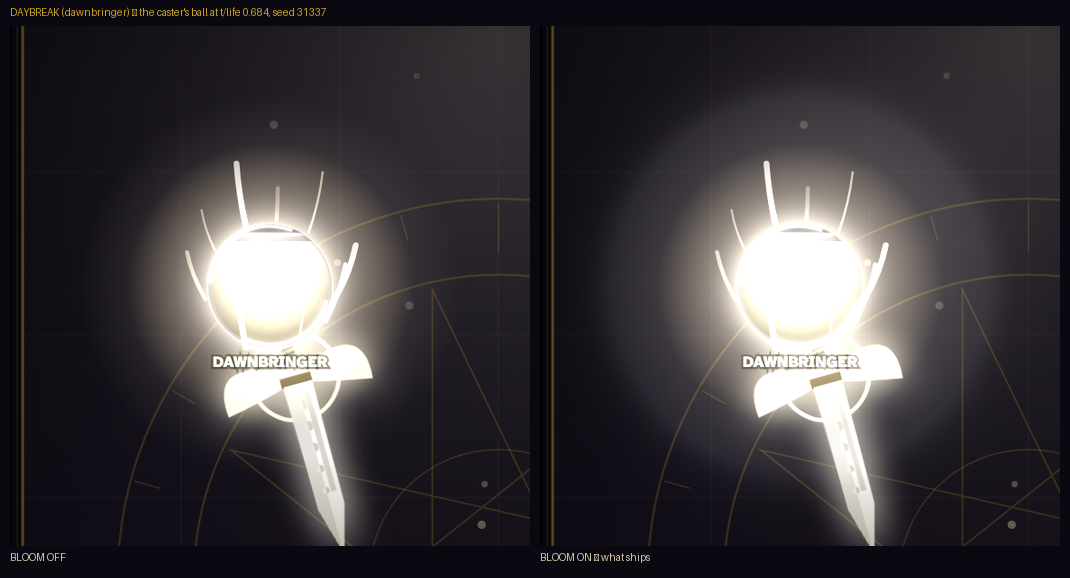
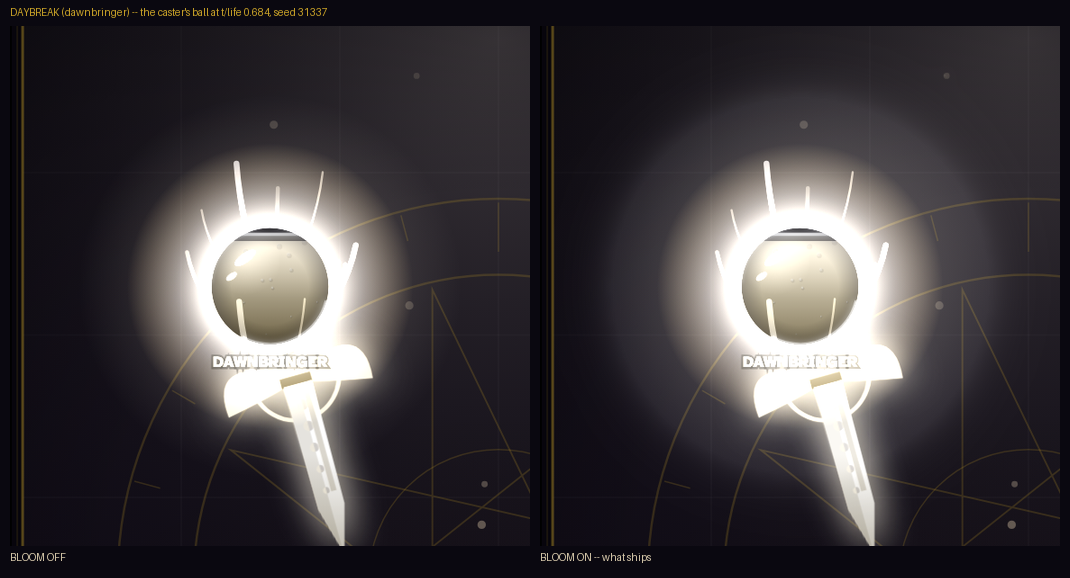
tools: the three debts -- and post_build's defaults were rebuilding the wrong build
All three off docs/APP-FEATURES-BRIEF.md 0, all three confirmed before being
fixed. The first is not cosmetic.

1. POST_BUILD'S DEFAULTS WERE STALE AND SILENT. `--src` pointed at
   sc-paradox-readouts.html and `--out` at sc-paradox-post.html -- the link
   BEFORE the ult art corrections, and a file that is not the tip. Inserting
   ultcarry_build.py into the chain earlier today is what made them wrong, and
   nothing complained: a bare `python post_build.py` rebuilt a "build of
   record" quietly missing Daybreak's ring, Benediction's lance and the
   Harrowing's reach. Exit 0, no warning, wrong picture. This is the project's
   own 4.1 shape -- right and wrong producing indistinguishable output -- in
   the build chain rather than in the art.

   Defaults now name the real tail: sc-paradox-dawn.html -> sc-paradox-frame.html.

   VERIFIED THE ONLY WAY WORTH ANYTHING: a bare run reproduces the committed
   tip BYTE-IDENTICALLY. Not "the arguments look right" -- diffed.

2. tools/README.md said 62 files over 203, and its BUILD section was missing
   cineexport_build, readouts_build and post_build -- three of the four newest
   chain links. That absence is HOW debt 1 survived: the section that should
   have shown post_build sitting after ultcarry did not list either.

   The section is now the tip's own stamps in stamp order, with the command
   that prints them written above it so the next person regenerates rather
[…]

diff --git a/tools/ult_filmstrip.py b/tools/ult_filmstrip.py
@@ -68,6 +68,20 @@ def foe_for(rid):
     return ALT_FOE if rid == FOE else FOE
 
 
+def ascii_only(t):
+    """PIL's DEFAULT FONT IS ASCII AND DRAWS EVERYTHING ELSE AS A TOFU BOX.
+
+    An em-dash in a sheet title renders as a black rectangle, and this project
+    reviews by photograph -- so the one artefact a reviewer is looking at
+    arrives with a corruption mark in its header. No font is loaded here on
+    purpose: a TTF path that exists on one machine and not the next is a worse
+    bug than a plain hyphen."""
+    return (t.replace("—", "--").replace("–", "-")
+             .replace("‘", "'").replace("’", "'")
+             .replace("“", '"').replace("”", '"')
+             .encode("ascii", "replace").decode("ascii"))
+
+
 def png(d):
     return Image.open(io.BytesIO(base64.b64decode(d.split(",", 1)[1]))).convert("RGB")
 
@@ -147,11 +161,11 @@ def main():
     H = HDR + len(rows) * (th + LBL + PAD) + PAD
     sh = Image.new("RGB", (W, H), (10, 8, 16))
     dr = ImageDraw.Draw(sh)
-    dr.text((PAD, 9), f"ULT SET-PIECES — {A.game}   t/life = "
-                      + "  ".join(str(f) for f in fr), fill=(201, 162, 39))
+    dr.text((PAD, 9), ascii_only(f"ULT SET-PIECES -- {A.game}   t/life = "
+                      + "  ".join(str(f) for f in fr)), fill=(201, 162, 39))
     y = HDR
     for lab, ims in rows:
-        dr.text((PAD, y + 5), lab, fill=(214, 200, 170))
+        dr.text((PAD, y + 5), ascii_only(lab), fill=(214, 200, 170))
         for i, im in enumerate(ims):
             sh.paste(im.resize((tw, th), Image.LANCZOS), (PAD + i * (tw + PAD), y + LBL))
         y += th + LBL + PAD

diff --git a/tools/post_build.py b/tools/post_build.py
@@ -241,8 +241,15 @@ def one(src: str, old: str, new: str, label: str) -> str:
 
 def main() -> int:
     ap = argparse.ArgumentParser()
-    ap.add_argument("--src", default="../02-chain/sc-paradox-readouts.html")
-    ap.add_argument("--out", default="../02-chain/sc-paradox-post.html")
+    # THE DEFAULTS ARE THE CHAIN OF RECORD, and they went stale the day
+    # ultcarry_build.py was inserted ahead of this step. They pointed at
+    # sc-paradox-readouts.html -- the link BEFORE the ult art corrections --
+    # and wrote sc-paradox-post.html, which is not the tip. A bare run
+    # therefore rebuilt a build of record that silently lacked Daybreak's
+    # ring, Benediction's lance and the Harrowing's reach, and said nothing.
+    # Nothing failed; the output was just quietly a build nobody had approved.
+    ap.add_argument("--src", default="../02-chain/sc-paradox-dawn.html")
+    ap.add_argument("--out", default="../02-chain/sc-paradox-frame.html")
     ap.add_argument("--off", action="store_true",
                     help="insert the chain but leave it switched off. For an "
                          "A/B build -- the picture is then identical to --src.")

diff --git a/tools/README.md b/tools/README.md
@@ -1,4 +1,4 @@
-# tools/ — 62 files, grouped by what they answer
+# tools/ — 203 files, grouped by what they answer
 
 Flat on disk on purpose: every tool resolves the game beside itself and
 imports `scpage.py` the same way, so subfolders would break all of them.
@@ -6,23 +6,30 @@ imports `scpage.py` the same way, so subfolders would break all of them.
 
 ## BUILD — the shipping chain, in order
 
+**This order is the tip's own `GENERATED by` stamps, read bottom-up**, not a
+list maintained by hand — `grep -o 'GENERATED by [a-z0-9_]*\.py' 02-chain/sc-paradox-frame.html`
+prints it. Four links were missing from this section for several sessions,
+including three of the four newest, which is how `post_build.py`'s defaults
+went stale without anyone noticing.
+
 - `roster15_build.py` — the 12-relic roster, massRef 2.509, and the TUNED damage table
-- `cinema_build.py` — the cinema director (patch v2)
 - `wallglow_build.py` — the closing-wall glow onto a downscaled buffer. --mode strips is the refuted control
-- `introcard_build.py` — the v2 fight card, and the single source of every status/ult tip
 - `roster_gs_build.py` — the four new greatswords + TUNED_GS + a structural preflight
 - `ultart_build.py` — ult set-pieces for the four new greatswords
 - `ultart2_build.py` — ult set-pieces for the last six bare relics
-- `ultcarry_build.py` — carries corrected ult set-pieces to the tip when their owning builder cannot be replayed. Imports/slices each block from its owner so there is one copy of the art
-- `ult_bloom_probe.py` — which ults blow out, and how much of it is the bloom. Ranked on the caster's disc. Zero simulated fights
-- `ult_fx_capture.py` — every ultimate's REAL ultFx, caught out of a real fight. The alternative was hand-writing phases, which is a 4.1 defect on purpose
-- `harrow_bloom_probe.py` — the Harrowing's arena-wide wash, decomposed into ring vs scythes and swept across the blade count
-- `ult_live_probe.py` — the ults a FROZEN match cannot show. Plays a real fight and draws it frame by frame, so the five whose picture lives in match state (stasis, ballista, split, spinstorm, retrace) are finally measurable
-- `share_build.py` — the share/phone shell around any engine
+- `ultforge_build.py` — the Crucible
+- `ultdawn_build.py` — DAYBREAK, and Dawnbringer's blade repaid
+- `introcard_build.py` — the v2 fight card, and the single source of every status/ult tip
+- `cineexport_build.py` — the director, exported for reading
+- `readouts_build.py` — floats, tags and the ult-name callout out of the bloom's source
+- `ultcarry_build.py` — corrected ult set-pieces carried to the tip when their owning builder cannot be replayed. Imports/slices each block from its owner so there is one copy of the art
+- `post_build.py` — the WebGL2 post chain into the build, so the app and the video run the same one
+
+Not stamped at the tip, but chain-adjacent:
+
+- `cinema_build.py` — the cinema director (patch v2)
 - `lastlight_build.py` — LASTLIGHT, the sanctified scythe + the Harrowing. TUNED_LL and every ult number
-- `harrow_probe.py` — the Harrowing falsified: 22 checks, incl. the dud rate and the burden identity at zero
-- `lastlight_sweep.py` — one relic's blade against the whole field, on PINNED seeds
-- `whitescythe_probe.py` — look at a free grid cell before designing it; writes nothing
+- `share_build.py` — the share/phone shell around any engine
 - `bench_build.py` — the measurement page: QUICK, kill switches, paired baselines
 
 ## BUILD — earlier chain and one-shot patches
@@ -58,6 +65,13 @@ imports `scpage.py` the same way, so subfolders would break all of them.
 - `twin_identity.py` — pixel identity of the _conjure callers
 - `scouter_check.py` — which side _scOuter's normal is on. Currently RED, deliberately
 - `wallglow_probe.py` — glow fidelity + blurred surface. --sweep picks the downscale
+- `ult_bloom_probe.py` — which ults blow out, and how much of it is the bloom. Ranked on the caster's disc. Zero simulated fights
+- `ult_fx_capture.py` — every ultimate's REAL ultFx, caught out of a real fight, so a probe replays what the engine built instead of what a session guessed
+- `ult_live_probe.py` — the ults a FROZEN match cannot show. Plays a real fight and draws it frame by frame; the five whose picture lives in match state (stasis, ballista, split, spinstorm, retrace) are only visible here
+- `harrow_bloom_probe.py` — the Harrowing's arena-wide wash, decomposed into ring vs scythes and swept across the blade count
+- `harrow_probe.py` — the Harrowing falsified: 22 checks, incl. the dud rate and the burden identity at zero
+- `lastlight_sweep.py` — one relic's blade against the whole field, on PINNED seeds
+- `whitescythe_probe.py` — look at a free grid cell before designing it; writes nothing
 - `cinema_check.py` — 4 checks on the director
 - `cinema_edge_probe.py` — wall-cut clipping
 - `silhouette_probe.py` — outline IoU within and across types. --footprint for true ink
